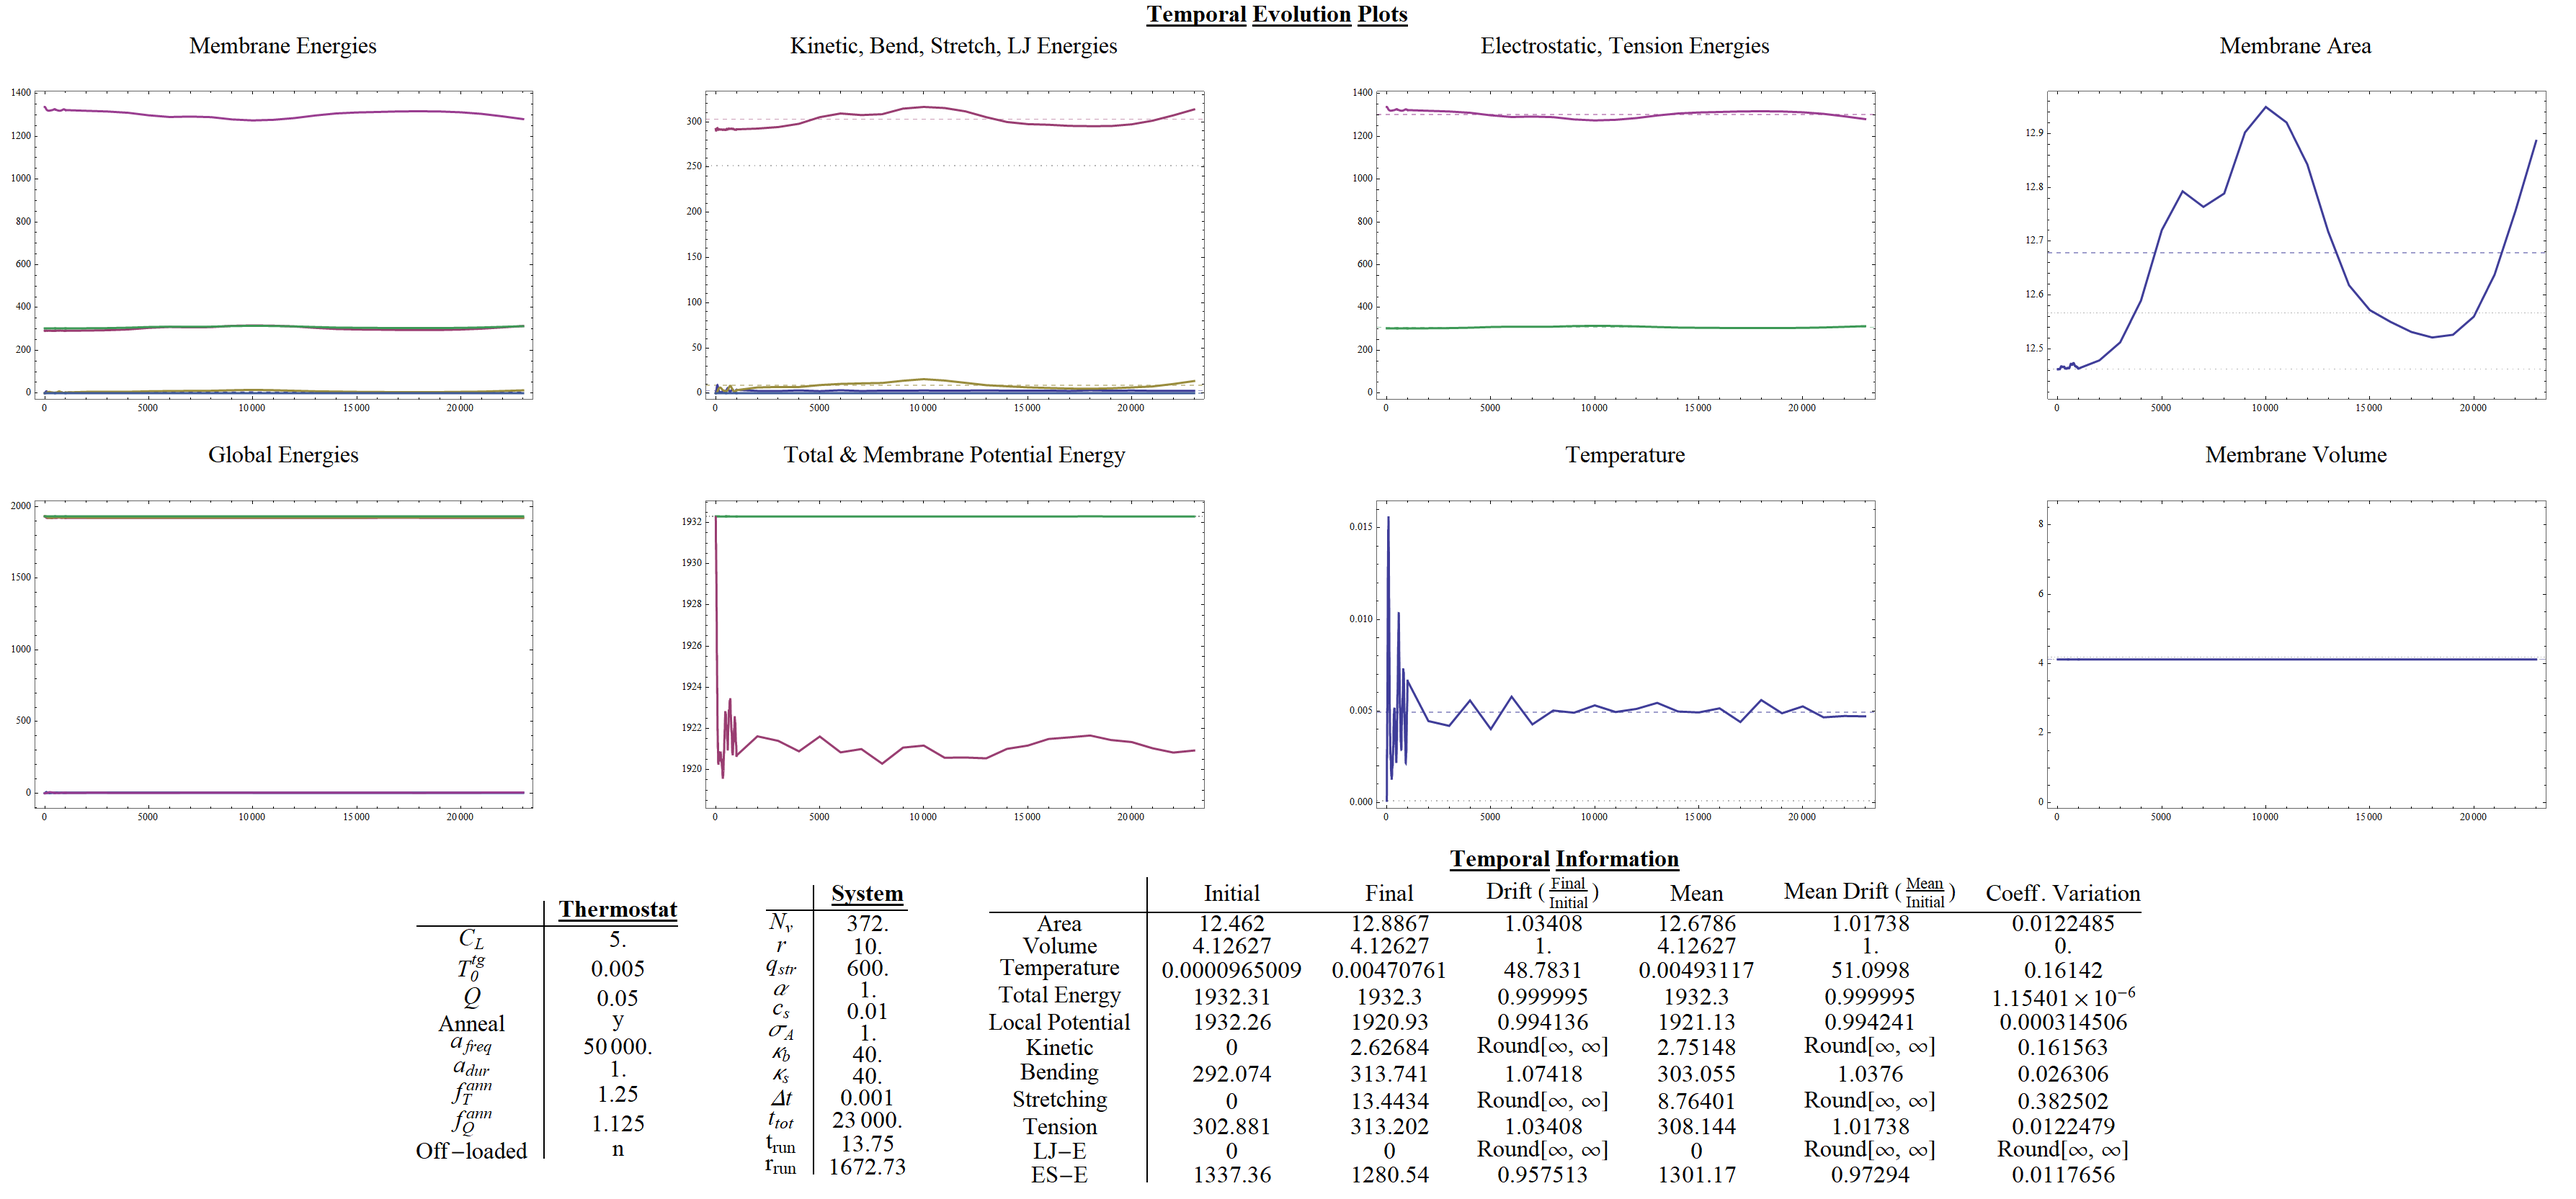
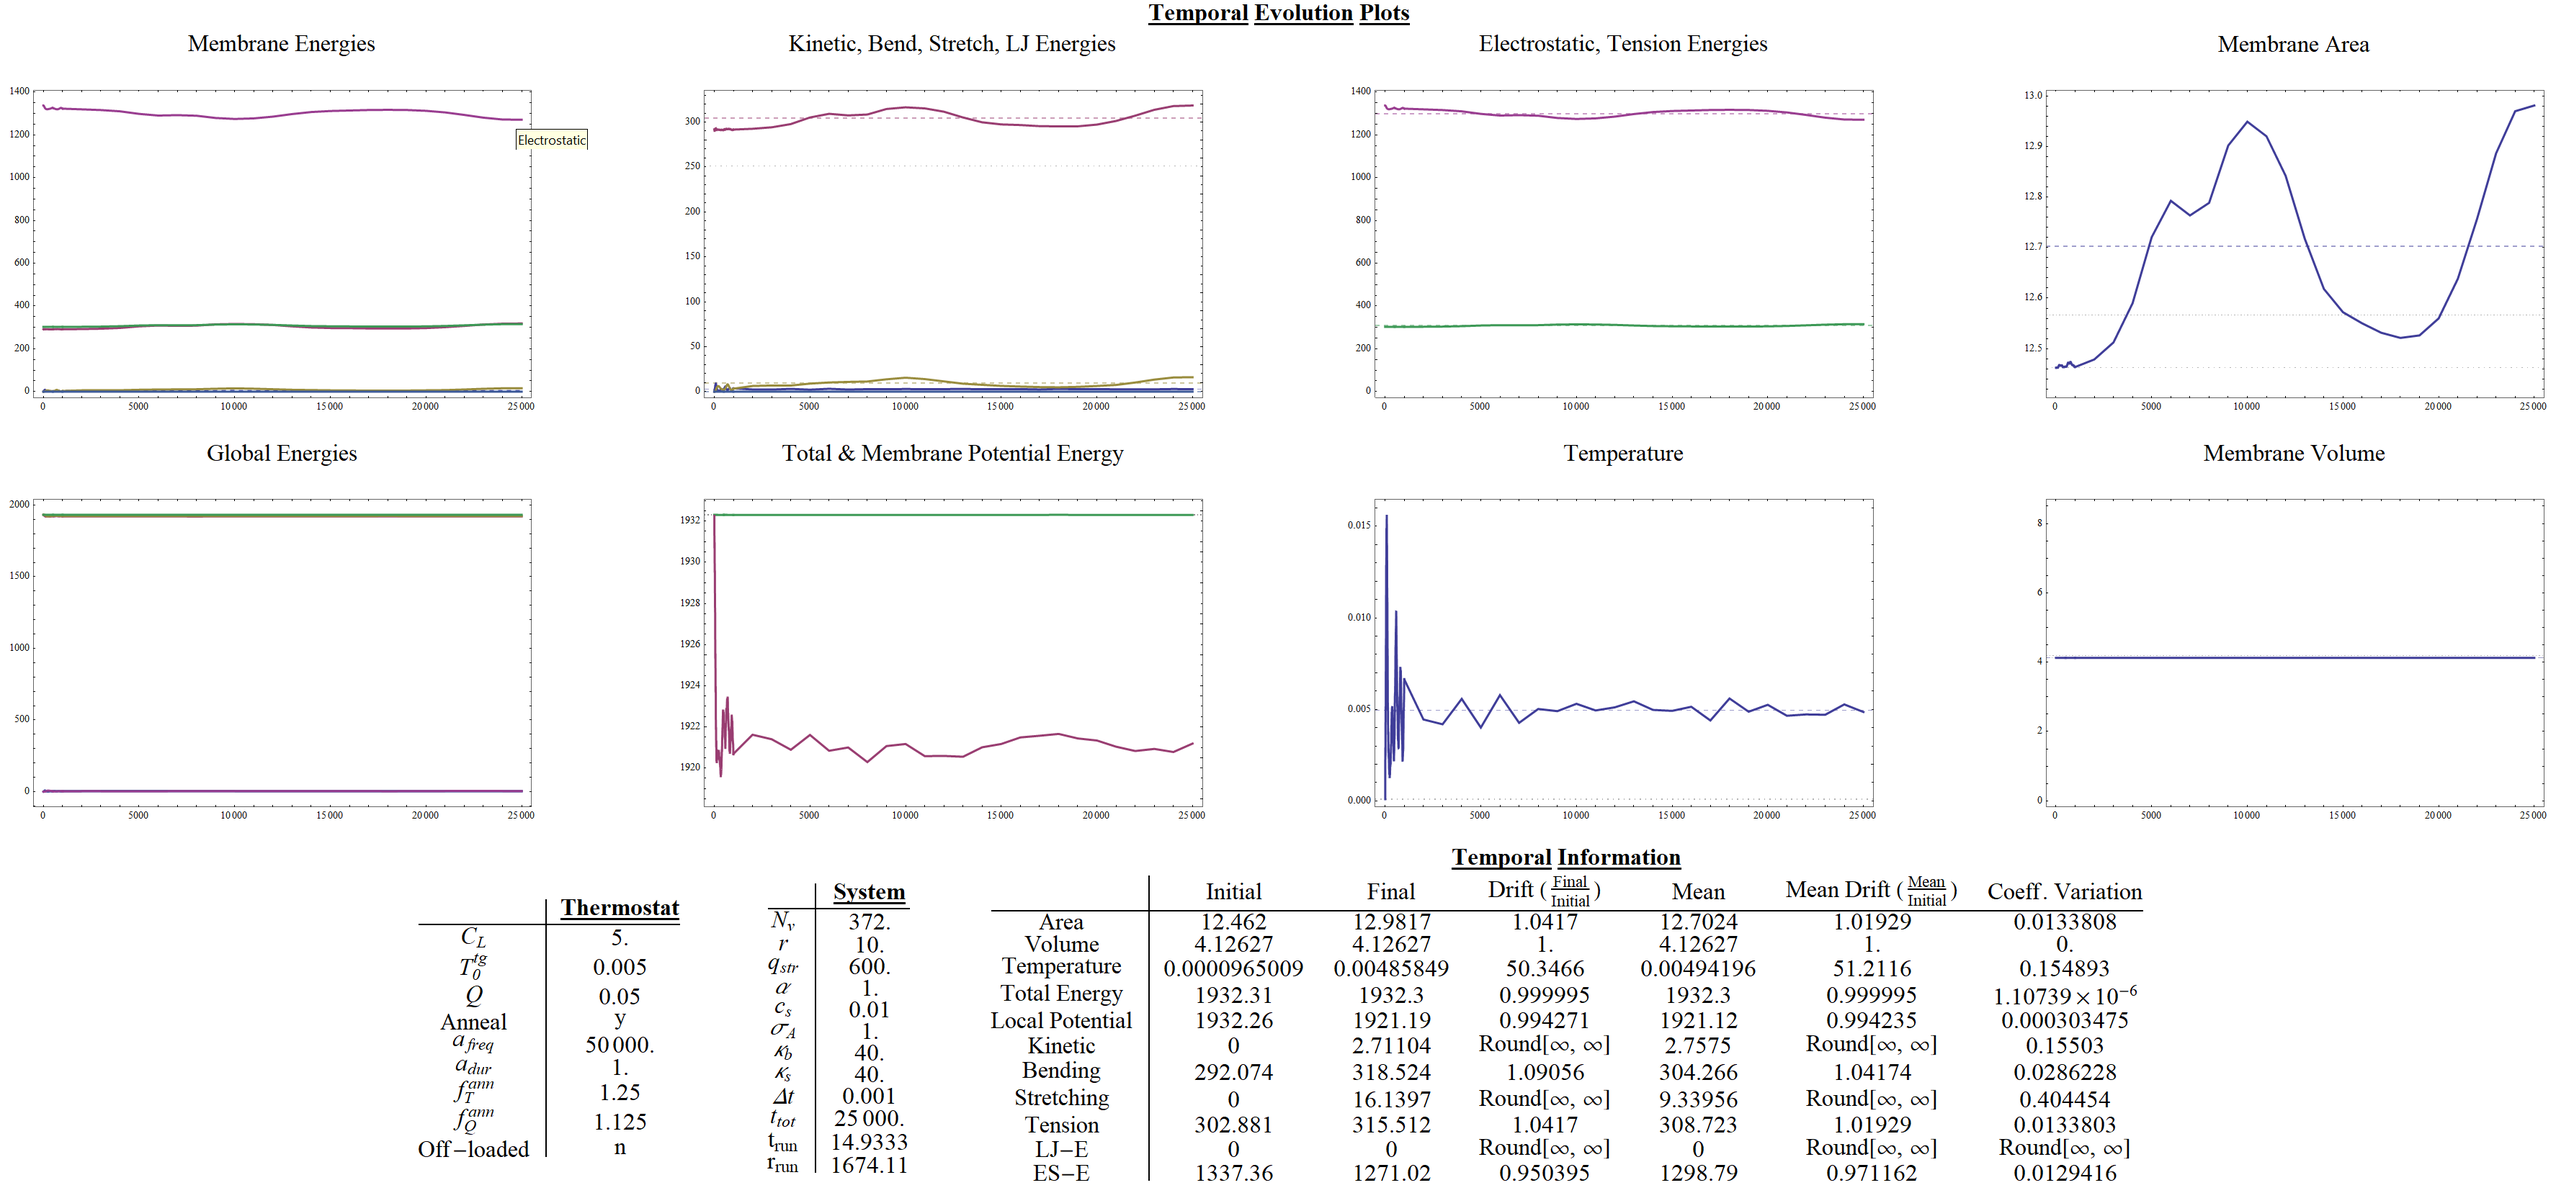
Adding rod control simulation and information.

diff --git a/README.md b/README.md
@@ -38,7 +38,7 @@
 ### Homogeneously-charged Rod Formation:
 * Simply increasing the salt concentration allows for testing homogeneously charged rod formation using the command below:
 * time ./np_shape_lab -R 10 -q 600 -c 0.010 -t 1 -b 40 -s 40 -S 25000 -D 4
-* After a few minutes, this should produce a rod of final reduced area (A = 15.89), local potential (U = 1920.93 kB T), and conserved total energy (E = 1932.3 kB T).
+* After a few minutes, this should produce a rod of final reduced area (A = 15.98), local potential (U = 1921.19 kB T), and conserved total energy (E = 1932.3 kB T).
 
 ### Inhomogeneously-charged Hemisphere Formation:
 * The same parameters may be used to test hemisphere formation with two added parameters (N) and (p):
